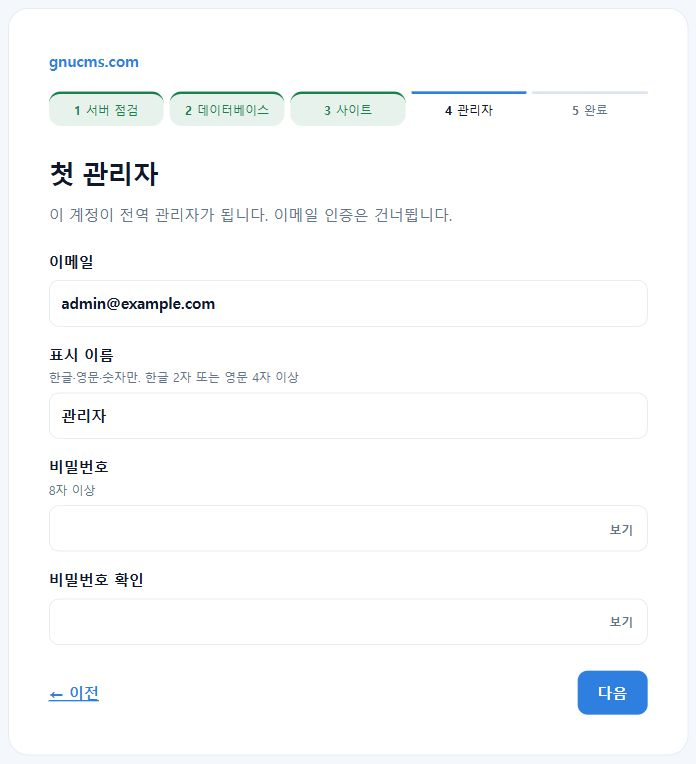
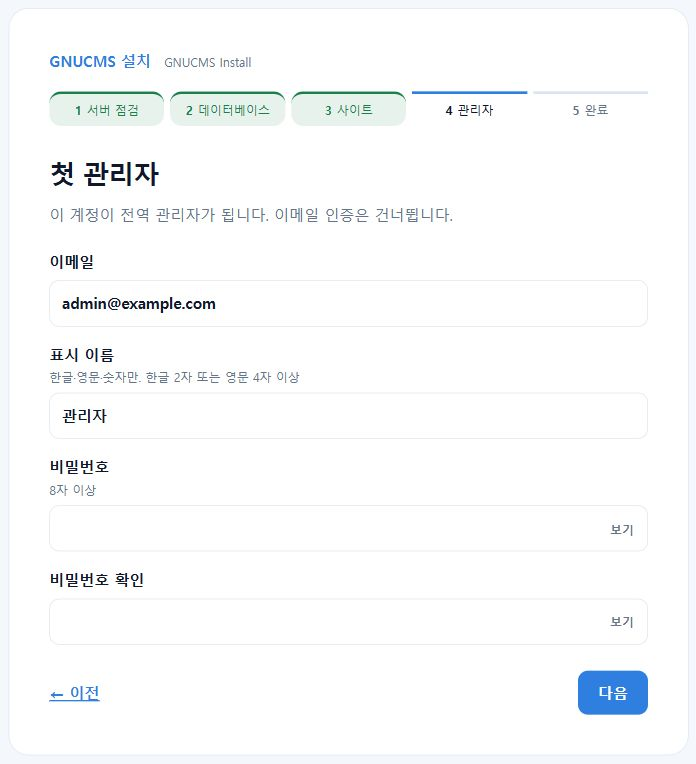
fix: use GNUCMS product name in installer

diff --git a/www/install.php b/www/install.php
@@ -46,13 +46,14 @@ function page(int $step, string $title, string $body): void
         $steps .= '<li class="' . $cls . '"><span>' . $n . '</span>' . h($name) . '</li>';
     }
     echo '<!doctype html><html lang="ko"><head><meta charset="utf-8"><meta name="viewport" content="width=device-width, initial-scale=1">'
-        . '<title>' . h($title) . ' · ' . h(GNUCMS) . ' 설치</title>'
+        . '<title>' . h($title) . ' · GNUCMS 설치 · GNUCMS Install</title>'
         . '<style>'
         . ':root{color-scheme:light;--bg:#f4f8fd;--panel:#fff;--fg:#0f172a;--muted:#64748b;--line:#dbe4f0;--primary:#2f7fe0;--danger:#d92d20;--ok:#1a7f4b}'
         . '@media(prefers-color-scheme:dark){:root{color-scheme:dark;--bg:#0b1220;--panel:#111a2b;--fg:#e5edf8;--muted:#94a3b8;--line:#243043;--primary:#6aa6f0;--danger:#ff8b81;--ok:#5ad28f}}'
         . '*{box-sizing:border-box}body{margin:0;padding:40px 16px;background:var(--bg);color:var(--fg);font:15px/1.65 system-ui,-apple-system,"Segoe UI","Noto Sans KR",sans-serif}'
         . 'main{max-width:680px;margin:auto;padding:clamp(24px,5vw,40px);border:1px solid var(--line);border-radius:20px;background:var(--panel)}'
         . '.brand{color:var(--primary);font-weight:800;margin-bottom:18px}'
+        . '.brand span{font-size:12px;font-weight:500;color:var(--muted);margin-left:8px}'
         . 'ol.steps{display:flex;gap:6px;list-style:none;margin:0 0 26px;padding:0;font-size:12px;color:var(--muted)}'
         . 'ol.steps li{display:flex;flex:1;align-items:center;justify-content:center;gap:5px;padding:6px 0;border-top:3px solid var(--line);text-align:center}ol.steps li span{font-weight:800}'
         . 'ol.steps li.now{border-color:var(--primary);color:var(--fg)}ol.steps li.done{border-color:var(--ok)}'
@@ -72,7 +73,7 @@ function page(int $step, string $title, string $body): void
         . 'a{color:var(--primary);font-weight:700}code{padding:2px 5px;border-radius:5px;background:rgba(47,127,224,.12)}'
         . 'dl{display:grid;grid-template-columns:auto 1fr;gap:6px 14px}dt{color:var(--muted)}dd{margin:0}'
         . '.pw{position:relative}.pw button{position:absolute;right:6px;bottom:6px;min-height:0;padding:6px 8px;background:transparent;color:var(--muted);font-size:12px}'
-        . '</style></head><body><main><div class="brand">' . h(GNUCMS) . '</div><ol class="steps">' . $steps . '</ol>'
+        . '</style></head><body><main><div class="brand">GNUCMS 설치 <span lang="en">GNUCMS Install</span></div><ol class="steps">' . $steps . '</ol>'
         . '<h1>' . h($title) . '</h1>' . $body . '</main>'
         . '<script>document.querySelectorAll("[data-show]").forEach(function(b){b.addEventListener("click",function(){var i=document.getElementById(b.dataset.show);i.type=i.type==="password"?"text":"password";b.textContent=i.type==="password"?"보기":"숨기기"})})</script>'
         . '</body></html>';
@@ -130,7 +131,7 @@ if ($step === 1) {
             . '<td>' . h($item['label']) . (!$item['required'] ? ' <span class="opt">권장</span>' : '') . '</td>'
             . '<td class="opt">' . h($item['note']) . '</td></tr>';
     }
-    $body = '<p class="intro">이 서버에서 ' . h(GNUCMS) . ' 가 돌 수 있는지 봅니다.</p><table>' . $rows . '</table>';
+    $body = '<p class="intro">이 서버에서 ' . h(GNUCMS) . '를 실행할 수 있는지 확인합니다.</p><table>' . $rows . '</table>';
     $body .= $result['ok']
         ? '<form method="post"><div class="actions"><span></span><button type="submit">다음</button></div></form>'
         : '<p class="alert">✗ 표시된 필수 항목을 고친 뒤 <a href="?step=1">다시 점검</a>하세요.</p>';

diff --git a/src/constants.php b/src/constants.php
@@ -7,7 +7,7 @@ declare(strict_types=1);
  * 그 뒤로는 관리자가 고친 site_name 이 앞선다. 설정을 읽을 수 없는 자리
  * (설치 화면, 기본값, 스키마 씨앗)에서만 이 상수를 그대로 쓴다.
  */
-const GNUCMS = 'gnucms.com';
+const GNUCMS = 'GNUCMS';
 
 /**
  * app.url 을 설정하지 않은 설치에서 쓰는 기본 주소. 메일 링크와 소셜 로그인
